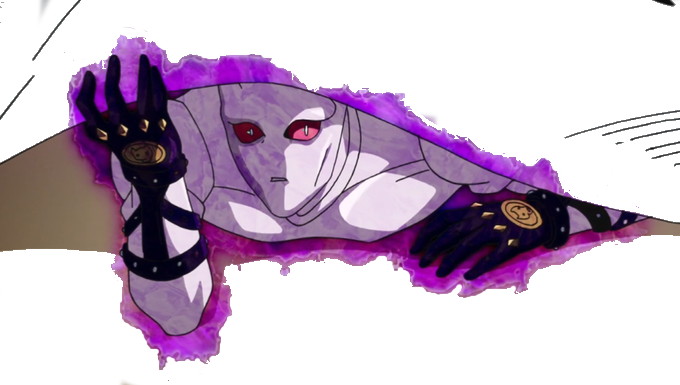
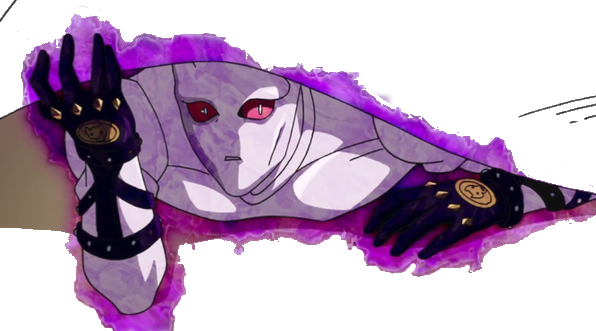
btd

diff --git a/index.html b/index.html
@@ -15,7 +15,7 @@
 			</div>
 		</div>
 		<div class="btd">
-			<img src="Images/btd.png" width="680" height="385">
+			<img src="Images/btd.png" width="170" height="80">
 		</div>
 	</body>
 <html>

diff --git a/CSS/style.css b/CSS/style.css
@@ -20,5 +20,5 @@ div.icons {
 div.btd {
 	position: fixed;
 	bottom: 0;
-	right: 1;
+	right: 0.5;
 }
